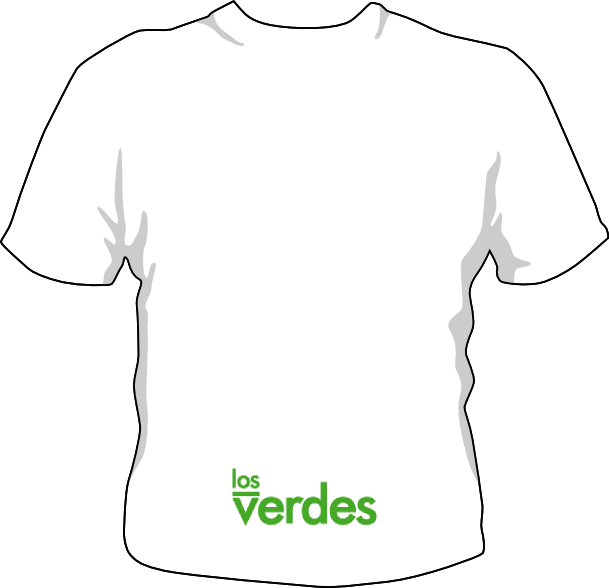
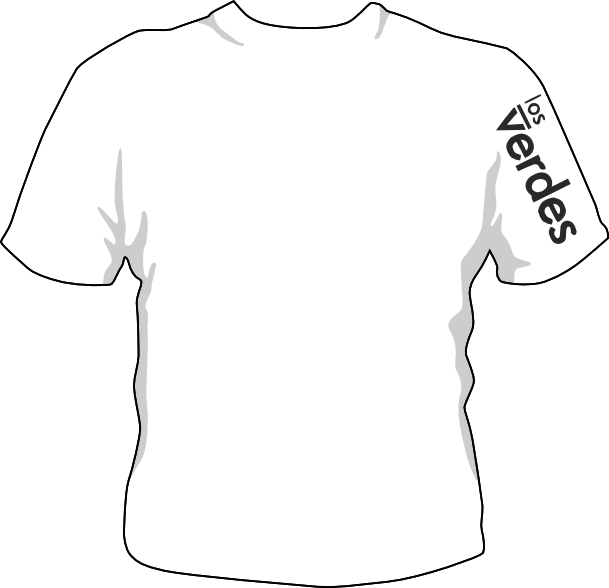
creo colores para las remeras

Changed region(s): [[0.8112, 0.1531, 0.9672, 0.4286], [0.3744, 0.7959, 0.624, 0.9184]]

diff --git a/static/nodakar/css/nodakar.css b/static/nodakar/css/nodakar.css
@@ -83,7 +83,7 @@ body {
 }
 
 #nodakar {
-  background-image: url("../imagenes/remera.png");
+  background-image: url("../imagenes/remera.png"), url("../imagenes/remera-a.png");
   background-repeat: no-repeat;
 }
 
